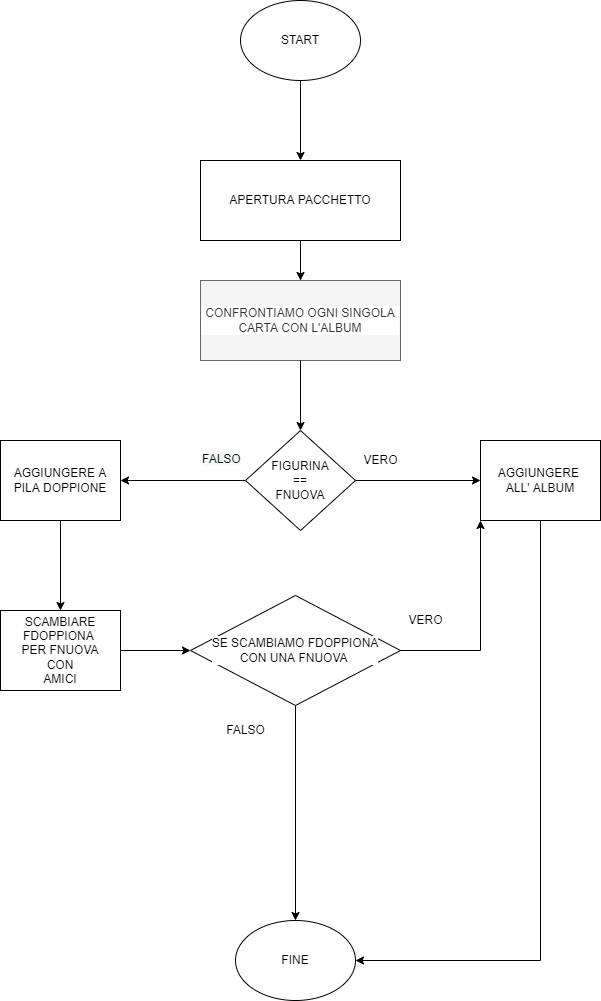
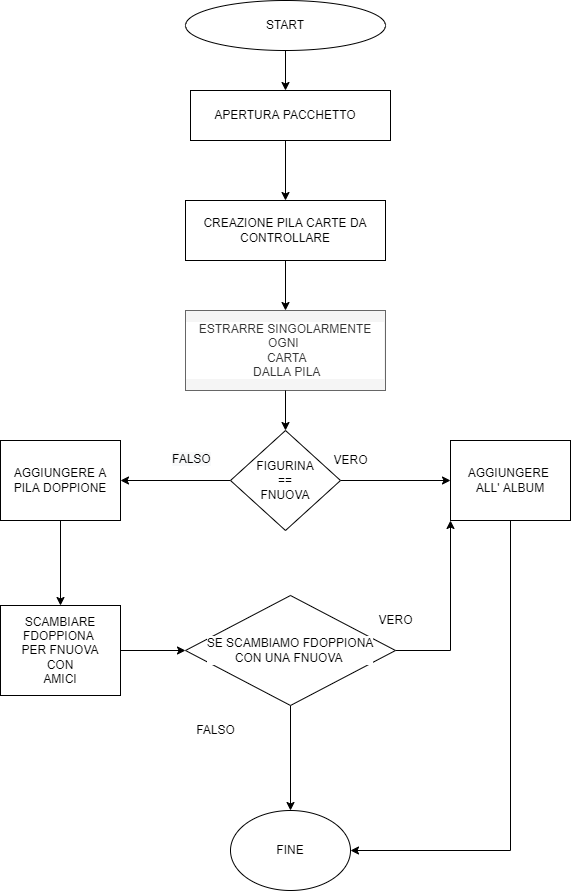
adding a new array

diff --git a/Aprire un pacchetto di figurine.md b/Aprire un pacchetto di figurine.md
@@ -12,12 +12,13 @@ ELEMENTI IMPORTANTI PER L'ESECUZIONE DELL'ESERCIZIO
 
     #fnuova (Figurina nuova)
     #fdoppione (Figurina Doppione)
-    
+
 }
 #album
 #piladoppioni
 
 -Apertura pacchetto (start)
+-creazione pila carte per effettuare i vari controlli 
 -confrontiamo ogni singola carta dell'album per verificare quali sono fnuova e fdoppione
 -controlloare figurina
 if(figurina==fnuova){ 
